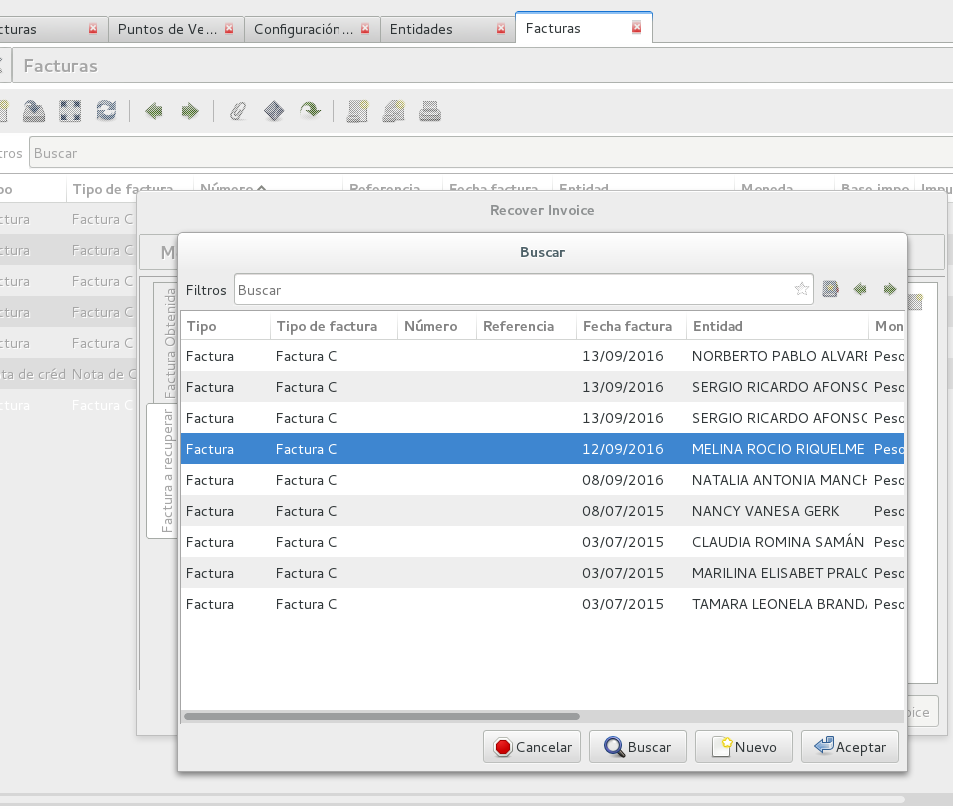
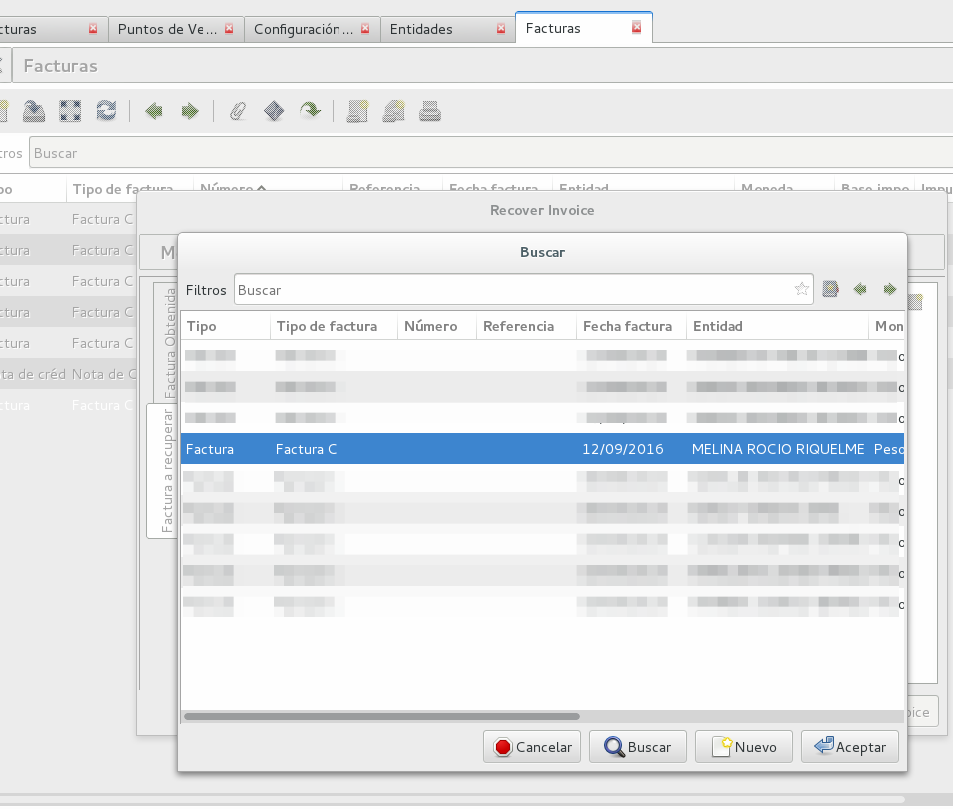
pixelar imágenes

diff --git a/facturacion.rst b/facturacion.rst
@@ -72,9 +72,9 @@ Al consultar, nos traerá una pantalla con los datos de la factura confirmada en
 .. image:: img/04-asistente-seleccionar-factura.png
    :width: 750 px
 
-Realizada la acción de guardar factura, podemos comprobar que le ha asignado su número de comprobante correspondiente y la ha pasado a estado confirmada (y obviamente creando el asiento contable).
+Realizada la acción de guardar factura, podemos comprobar que se le ha asignado su número de comprobante correspondiente y la ha pasado a estado confirmada (y obviamente creado el asiento contable).
 
-.. image:: img/04-asistente-seleccionar-factura.png
+.. image:: img/05-factura-confirmada.png
    :width: 750 px
 
 Facturas de Proveedor:
